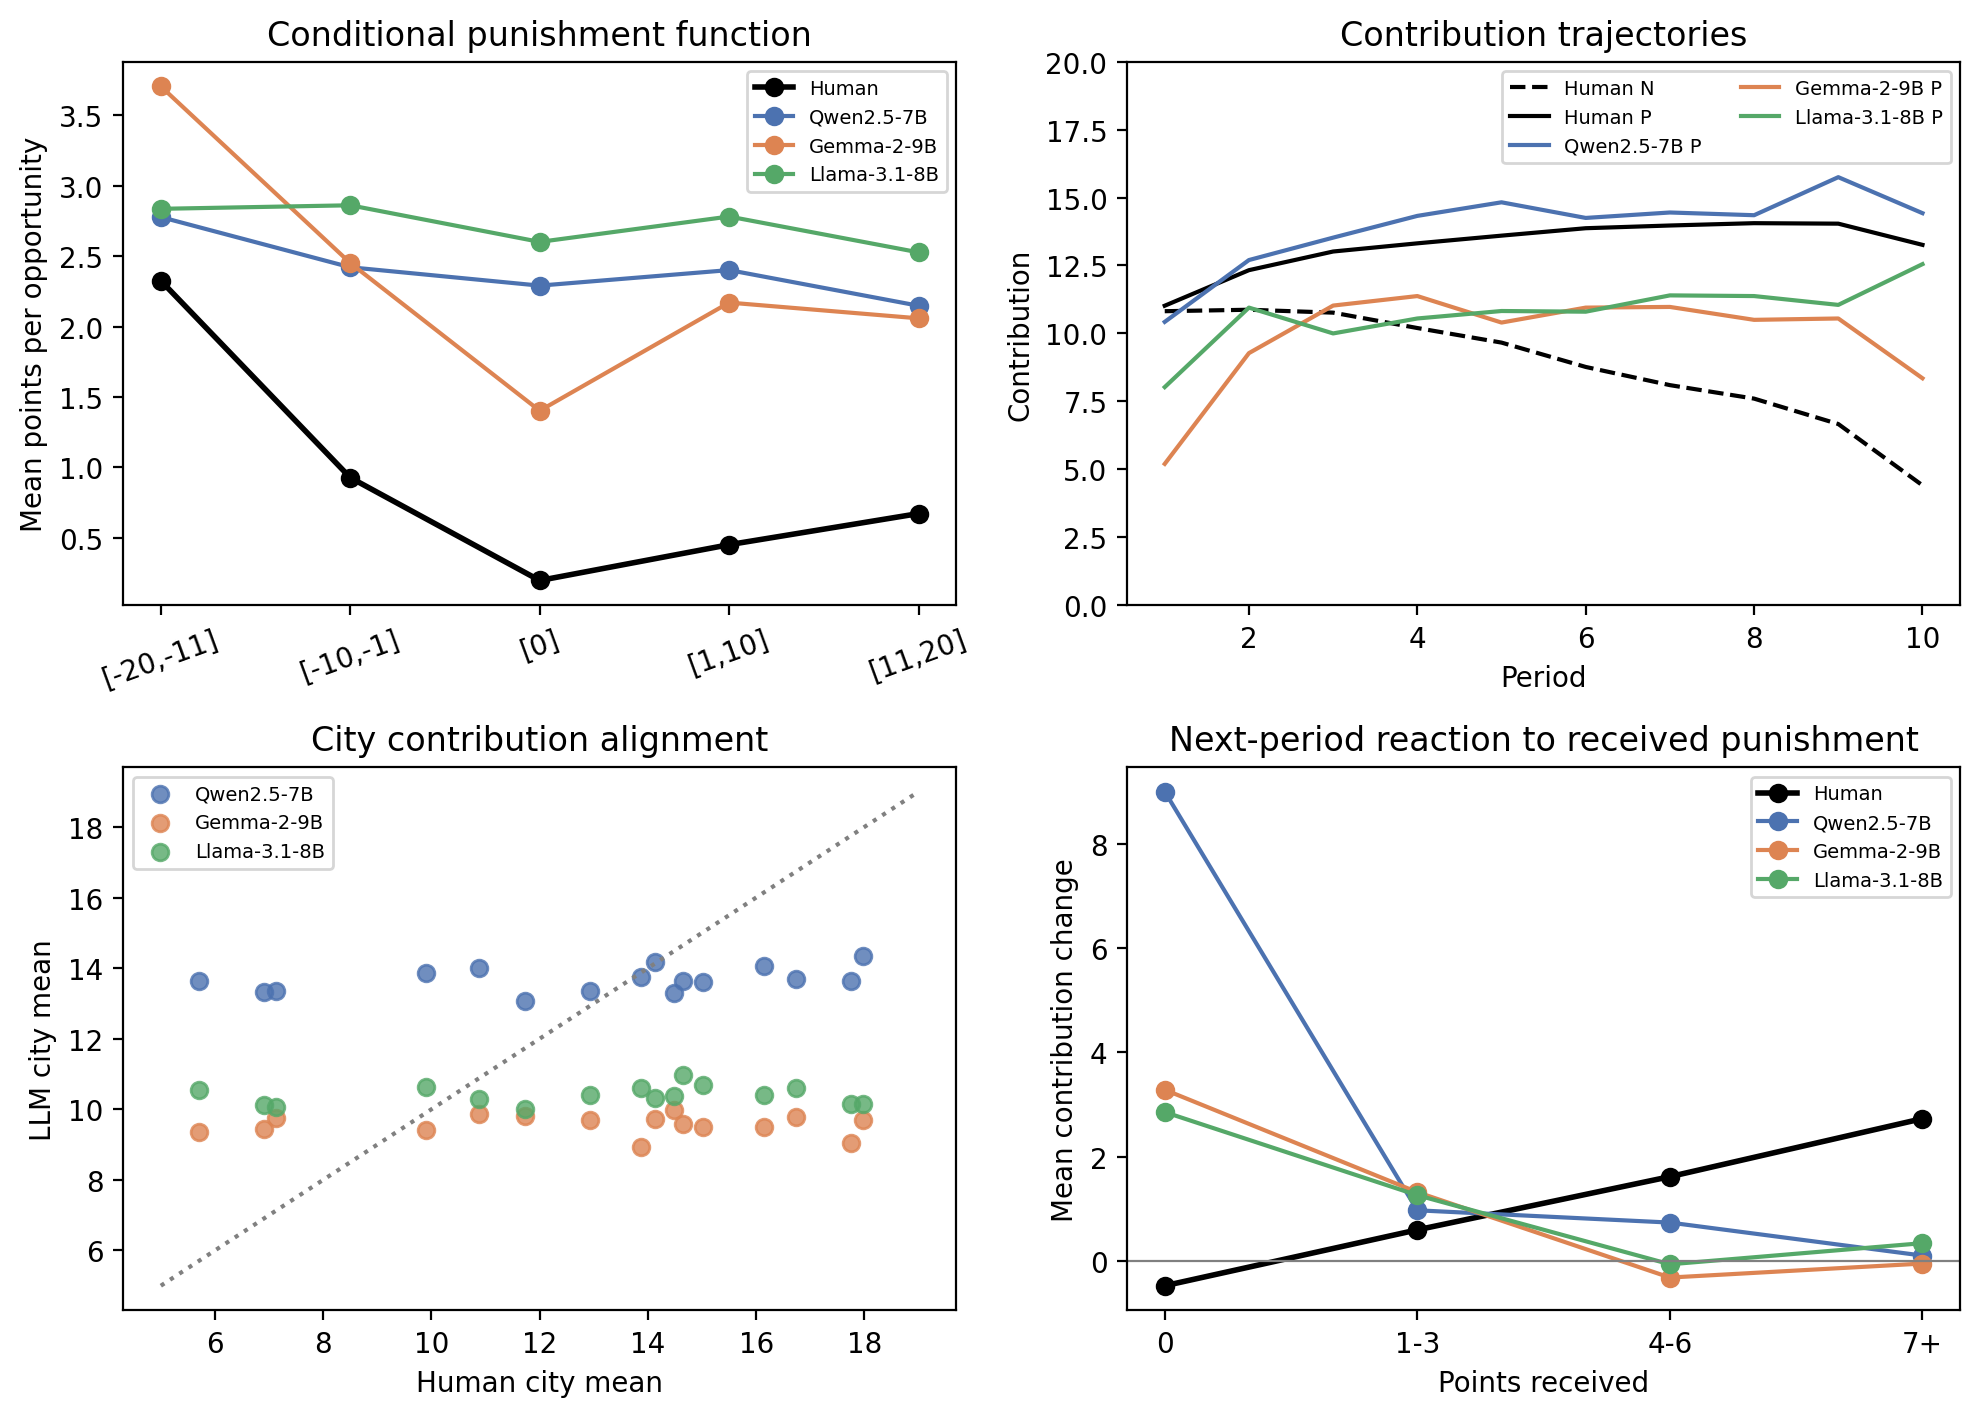
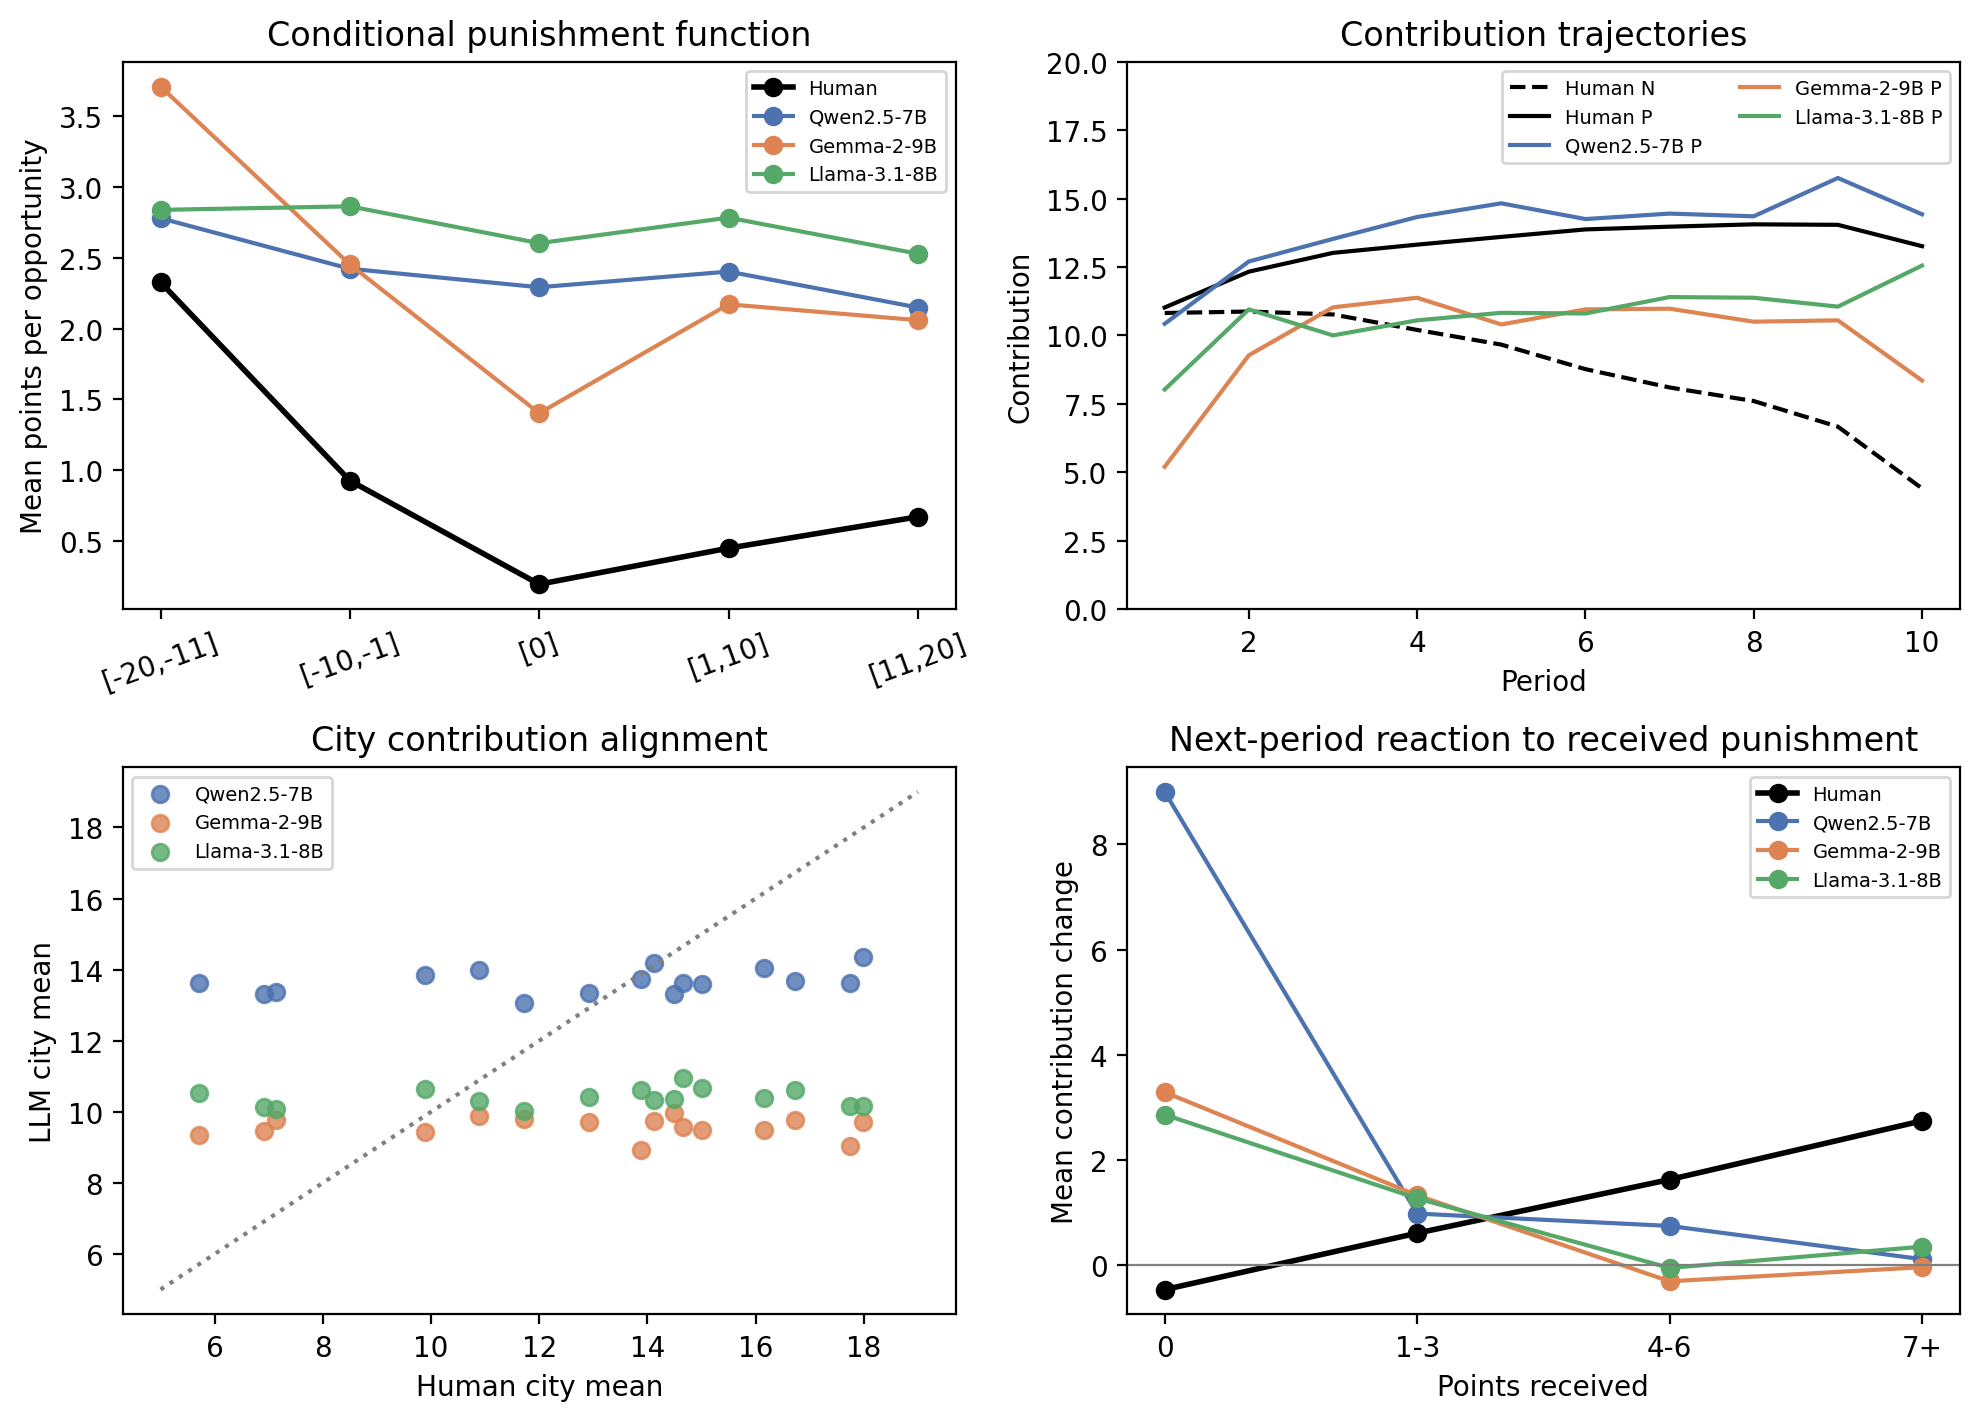
Fix human–LLM PGG comparison fidelity and analysis bugs
Config (faithful replication of Herrmann et al. 2008):
- Set floorPeriodEarnings=false in pgg_N/P.json so per-period income may go
  negative as in the human data (~5.75% of P sender-periods are negative);
  the prior floor at 0 censored the most-punished free-riders. NOTE: the LLM
  results JSONs still reflect the old floor=true run and must be regenerated
  by re-running the Kaggle simulation.

Analysis (human_llm_alignment.py):
- Repoint stale HUMAN_CSV path 4969858_extracted -> AntisocialPunishment_Dataset
  (old path no longer exists; script crashed on a fresh checkout).
- Use (sessionid, subjectid) as the person key; subjectid is not globally
  unique across sessions. Human P units 1120->1148, P mean 13.25->13.07,
  reaction n 10080->10052 (N unchanged). Regenerated json/md/figure.
- Document interval-regression-vs-means, within/between design, person key.

Manuscript:
- Disclose within- vs between-subject design asymmetry in Limitations.

diff --git a/Paper_PGG_Punishment/analysis/human_llm_alignment.py b/Paper_PGG_Punishment/analysis/human_llm_alignment.py
@@ -28,7 +28,7 @@ from scipy import stats
 HERE = Path(__file__).resolve().parent
 PROJECT = HERE.parents[1]
 RESULTS = PROJECT / "FAIRGAME" / "results" / "pgg_punish_results"
-HUMAN_CSV = (PROJECT / "4969858_extracted" / "HerrmannThoeniGaechter" /
+HUMAN_CSV = (PROJECT / "AntisocialPunishment_Dataset" / "HerrmannThoeniGaechter" /
              "HerrmannThoeniGaechterDATA.csv")
 FIGDIR = HERE.parent / "figures"
 FIGDIR.mkdir(parents=True, exist_ok=True)
@@ -78,7 +78,11 @@ def load_human():
     df[numeric] = df[numeric].apply(pd.to_numeric, errors="coerce")
     df["treatment"] = df["p"].map({"N-experiment": "N", "P-experiment": "P"})
     df["deviation"] = df["otherscontribution"] - df["senderscontribution"]
-    decisions = df.drop_duplicates(["subjectid", "treatment", "period"]).copy()
+    # subjectid is not globally unique (it repeats across sessions); the person key
+    # is (sessionid, subjectid). Deduping/grouping on subjectid alone would merge
+    # distinct participants who share an id in different sessions.
+    decisions = df.drop_duplicates(
+        ["sessionid", "subjectid", "treatment", "period"]).copy()
     return df, decisions
 
 
@@ -272,19 +276,27 @@ def analyse():
     human_reg = mechanism_regression(hgroups, "mgroupid")
 
     hreact = human_decisions[human_decisions["treatment"] == "P"][
-        ["subjectid", "period", "senderscontribution", "recpun"]].rename(
+        ["sessionid", "subjectid", "period", "senderscontribution", "recpun"]].rename(
             columns={"senderscontribution": "contribution", "recpun": "received"})
     out = {
         "notes": {
             "country": "Country is derived metadata; the source CSV identifies city pools only.",
             "units": "Punishment means include zero assignments and are per punisher-target opportunity.",
             "independence": "Human regression clusters by matching group; LLM regressions use HC1 with n=10 games.",
+            "punishment_estimator": ("Human and LLM punishment are compared as raw per-opportunity "
+                                     "means; Herrmann et al. modelled punishment with interval "
+                                     "(censored) regression clustered by matching group, so these "
+                                     "descriptive means do not reproduce the published coefficients."),
+            "person_key": ("Human person unit is (sessionid, subjectid); subjectid alone is not "
+                           "globally unique across sessions."),
+            "design": ("Human N/P are within-subject (two counterbalanced ten-period sequences per "
+                       "participant; CSV 'secseq'); LLM N/P are independent between-group games."),
         },
         "countries": COUNTRIES,
         "human": {
             "conditional_punishment": hprofile,
             "mechanism_regression": human_reg,
-            "reaction": reaction_summary(hreact, ["subjectid"]),
+            "reaction": reaction_summary(hreact, ["sessionid", "subjectid"]),
             "city": hcity.to_dict(orient="records"),
             "city_correlations": {
                 "contribution_vs_civic": rho(hcity.contribution.tolist(), hcity.civic.tolist()),
@@ -296,7 +308,7 @@ def analyse():
         "models": {},
     }
 
-    human_unit = human_decisions.groupby(["subjectid", "treatment"])[
+    human_unit = human_decisions.groupby(["sessionid", "subjectid", "treatment"])[
         "senderscontribution"].mean().reset_index()
     for treatment in ("N", "P"):
         vals = human_unit.loc[human_unit.treatment == treatment, "senderscontribution"]
@@ -418,7 +430,8 @@ def write_markdown(result):
                      f"{fmt(c['llm_anti_mean_vs_ruleoflaw'])} |")
 
     lines += ["", "## Interpretation cautions", "",
-              "- Human P and N are sequential for most subjects; LLM P and N are independent games.",
+              "- Human P and N are sequential within-subject (two counterbalanced ten-period sequences per participant); LLM P and N are independent between-group games, so the P-N contrast is a within-subject gain for humans but a between-group difference for the models.",
+              "- Human punishment here is summarized as raw per-opportunity means, whereas Herrmann et al. used interval (censored) regression clustered by matching group; the means are comparable to the LLM means but do not reproduce the paper's censored coefficients.",
               "- The city prompt is only a location label, so city alignment tests model priors rather than a rich cultural manipulation.",
               "- LLM mechanism regressions have only ten baseline groups and are descriptive.",
               "- Demographic alignment cannot be estimated because the existing LLM runs have no matched demographic personas."]

diff --git a/Paper_PGG_Punishment/main.tex b/Paper_PGG_Punishment/main.tex
@@ -68,7 +68,7 @@ The implications extend beyond the methodology of computational social science t
 
 \subsection{Limitations}
 
-Several limitations bound the scope of these conclusions. First, we study three open-weight instruction-tuned models in the 7--9B parameter range (Qwen2.5-7B-Instruct, Gemma-2-9B-it, Llama-3.1-8B-Instruct; \cite{qwen2025,gemma2024,llama2024}) at a single decoding temperature of 0.8. We cannot say how much of the diagnostic failure reflects model scale or sampling, and it remains possible that larger frontier systems would recover more of the institutional and cultural structure; our claims are therefore claims about these models under these settings, not about language agents in general. Second, our societal manipulation is deliberately minimal: each persona names only a city and country from Herrmann's participant pool, with no behavioural stereotype attached. This neutrality is a design choice that lets us ask whether a bare geographic label, of the kind a silicon-subject study might casually deploy, suffices to elicit cultural variation---and our null result speaks directly to that question. But it also means we have not tested whether richer, norm-laden personas could recover the geography of cooperation, and the absence of cross-societal heterogeneity should be read as a statement about neutral labels rather than about the models' ceiling for cultural differentiation. Third, format non-compliance is negligible in the English baseline that carries the headline results (at most 1.8\% of contribution decisions and 6.8\% of punishment decisions per model) but rises sharply in some low-resource pairings, reaching 31\% of contribution and 43\% of punishment decisions for Gemma in Arabic and 15--19\% of contribution decisions for Llama in Vietnamese; although we log every cell's rate as a joint data-quality and fairness signal, the affected cross-language cells carry correspondingly fewer clean decisions, and non-compliance may interact unevenly with personas and dispositions. Fourth, although the same four agents stay together for all ten periods, the design---faithful to the original---blocks communication, explicit agreements and cross-period identity tracking (co-players are re-labelled every period), so the rich reciprocity and reputational dynamics that scaffold human punishment are unavailable by construction. Fifth, like all prompted-LLM studies our results carry some prompt sensitivity, and the natural-language framing of the brief, history and disposition block could shift behaviour in ways we have not exhaustively mapped. Finally, instruction-tuned models are shaped by alignment training that explicitly discourages harmful or punitive outputs and encourages even-handedness, which may simultaneously inflate baseline contributions, blunt the deviation-sensitivity of punishment, and homogenise behaviour across personas; disentangling alignment effects from genuine strategic reasoning is beyond what our design can resolve.
+Several limitations bound the scope of these conclusions. First, we study three open-weight instruction-tuned models in the 7--9B parameter range (Qwen2.5-7B-Instruct, Gemma-2-9B-it, Llama-3.1-8B-Instruct; \cite{qwen2025,gemma2024,llama2024}) at a single decoding temperature of 0.8. We cannot say how much of the diagnostic failure reflects model scale or sampling, and it remains possible that larger frontier systems would recover more of the institutional and cultural structure; our claims are therefore claims about these models under these settings, not about language agents in general. Second, our societal manipulation is deliberately minimal: each persona names only a city and country from Herrmann's participant pool, with no behavioural stereotype attached. This neutrality is a design choice that lets us ask whether a bare geographic label, of the kind a silicon-subject study might casually deploy, suffices to elicit cultural variation---and our null result speaks directly to that question. But it also means we have not tested whether richer, norm-laden personas could recover the geography of cooperation, and the absence of cross-societal heterogeneity should be read as a statement about neutral labels rather than about the models' ceiling for cultural differentiation. Third, format non-compliance is negligible in the English baseline that carries the headline results (at most 1.8\% of contribution decisions and 6.8\% of punishment decisions per model) but rises sharply in some low-resource pairings, reaching 31\% of contribution and 43\% of punishment decisions for Gemma in Arabic and 15--19\% of contribution decisions for Llama in Vietnamese; although we log every cell's rate as a joint data-quality and fairness signal, the affected cross-language cells carry correspondingly fewer clean decisions, and non-compliance may interact unevenly with personas and dispositions. Fourth, although the same four agents stay together for all ten periods, the design---faithful to the original---blocks communication, explicit agreements and cross-period identity tracking (co-players are re-labelled every period), so the rich reciprocity and reputational dynamics that scaffold human punishment are unavailable by construction. Fifth, like all prompted-LLM studies our results carry some prompt sensitivity, and the natural-language framing of the brief, history and disposition block could shift behaviour in ways we have not exhaustively mapped. Sixth, the original experiment is within-subject---each participant played both the no-punishment and punishment treatments as two counterbalanced ten-period sequences---so the human P~$-$~N gain is a within-subject contrast that also absorbs sequence-order and experience effects, whereas our agents play the two treatments as independent groups; the institutional effect we report is therefore a between-group difference and the human benchmark it is compared against is not a perfectly like-for-like estimand, although the qualitative conclusion (the punishment institution does not lift cooperation for these agents) does not depend on the distinction. Finally, instruction-tuned models are shaped by alignment training that explicitly discourages harmful or punitive outputs and encourages even-handedness, which may simultaneously inflate baseline contributions, blunt the deviation-sensitivity of punishment, and homogenise behaviour across personas; disentangling alignment effects from genuine strategic reasoning is beyond what our design can resolve.
 
 These limitations chart the natural next steps. Personas richer than a neutral city label---carrying explicit social norms, institutional context or cultural values---would test whether the geography of cooperation is genuinely unreachable or merely under-elicited by bare geographic framing. Allowing communication, explicit agreements and cross-period reciprocity would let agents build the reputational scaffolding on which human punishment depends, and would reveal whether the institutional function of sanctioning emerges once that scaffolding is in place. Agents whose policies are shaped by reinforcement learning in the game itself, rather than by prompting alone, would separate what current models do by default from what language agents can be trained to do. And extending the battery to frontier models would establish whether the diagnostic failures we report shrink with scale or persist as a structural feature of LLM agents.
 

diff --git a/Paper_PGG_Punishment/analysis/human_llm_alignment.md b/Paper_PGG_Punishment/analysis/human_llm_alignment.md
@@ -34,9 +34,9 @@ Wasserstein distance uses player-level ten-period mean contributions.
 
 | model | W-dist N | W-dist P | trajectory RMSE N | trajectory RMSE P |
 |---|---:|---:|---:|---:|
-| Qwen2.5-7B | 5.73 | 3.42 | 6.45 | 0.90 |
-| Gemma-2-9B | 5.36 | 5.04 | 6.68 | 3.57 |
-| Llama-3.1-8B | 3.18 | 4.33 | 3.26 | 2.61 |
+| Qwen2.5-7B | 5.73 | 3.50 | 6.45 | 0.90 |
+| Gemma-2-9B | 5.36 | 5.00 | 6.68 | 3.57 |
+| Llama-3.1-8B | 3.18 | 4.31 | 3.26 | 2.61 |
 
 ## Reaction to received punishment
 
@@ -45,7 +45,7 @@ controlling current contribution and period.
 
 | source | n player-periods | raw slope | adjusted slope | robust SE | p |
 |---|---:|---:|---:|---:|---:|
-| Human | 10080 | 0.331 | 0.141 | 0.023 | 0.000 |
+| Human | 10052 | 0.332 | 0.142 | 0.023 | 0.000 |
 | Qwen2.5-7B | 360 | -0.040 | 0.016 | 0.065 | 0.804 |
 | Gemma-2-9B | 360 | -0.081 | -0.079 | 0.059 | 0.182 |
 | Llama-3.1-8B | 360 | 0.002 | -0.002 | 0.056 | 0.973 |
@@ -63,7 +63,8 @@ All punishment quantities below are normalized per opportunity, not totals.
 
 ## Interpretation cautions
 
-- Human P and N are sequential for most subjects; LLM P and N are independent games.
+- Human P and N are sequential within-subject (two counterbalanced ten-period sequences per participant); LLM P and N are independent between-group games, so the P-N contrast is a within-subject gain for humans but a between-group difference for the models.
+- Human punishment here is summarized as raw per-opportunity means, whereas Herrmann et al. used interval (censored) regression clustered by matching group; the means are comparable to the LLM means but do not reproduce the paper's censored coefficients.
 - The city prompt is only a location label, so city alignment tests model priors rather than a rich cultural manipulation.
 - LLM mechanism regressions have only ten baseline groups and are descriptive.
 - Demographic alignment cannot be estimated because the existing LLM runs have no matched demographic personas.